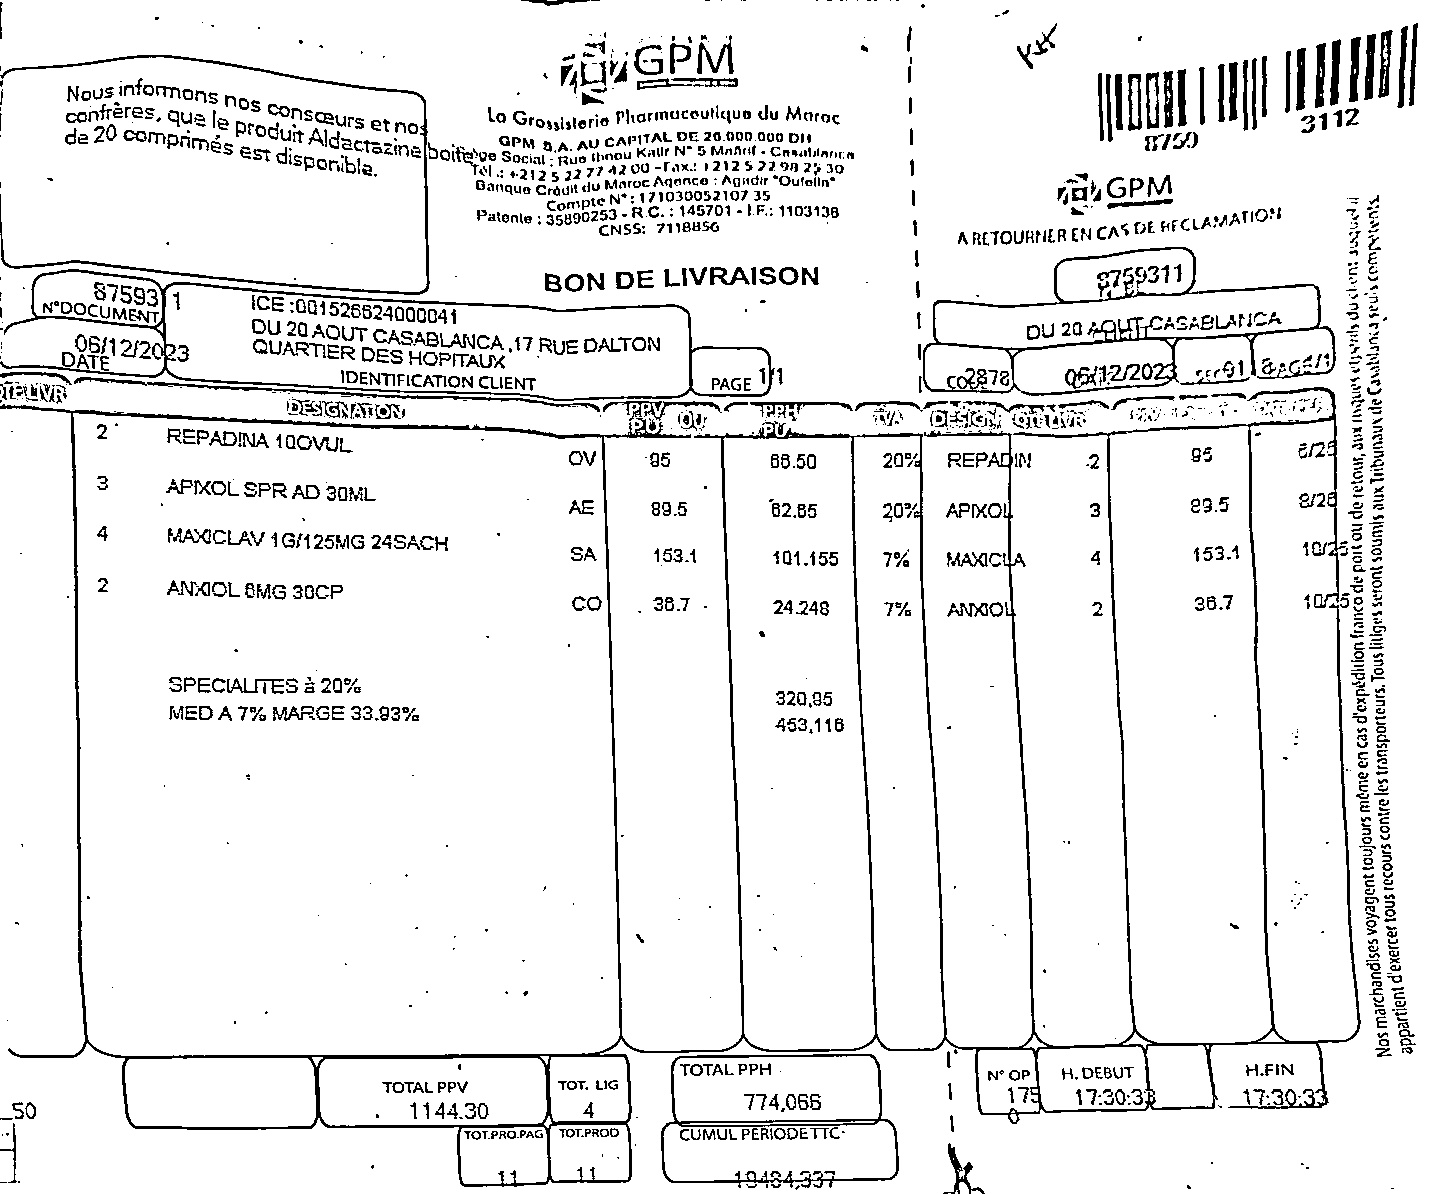
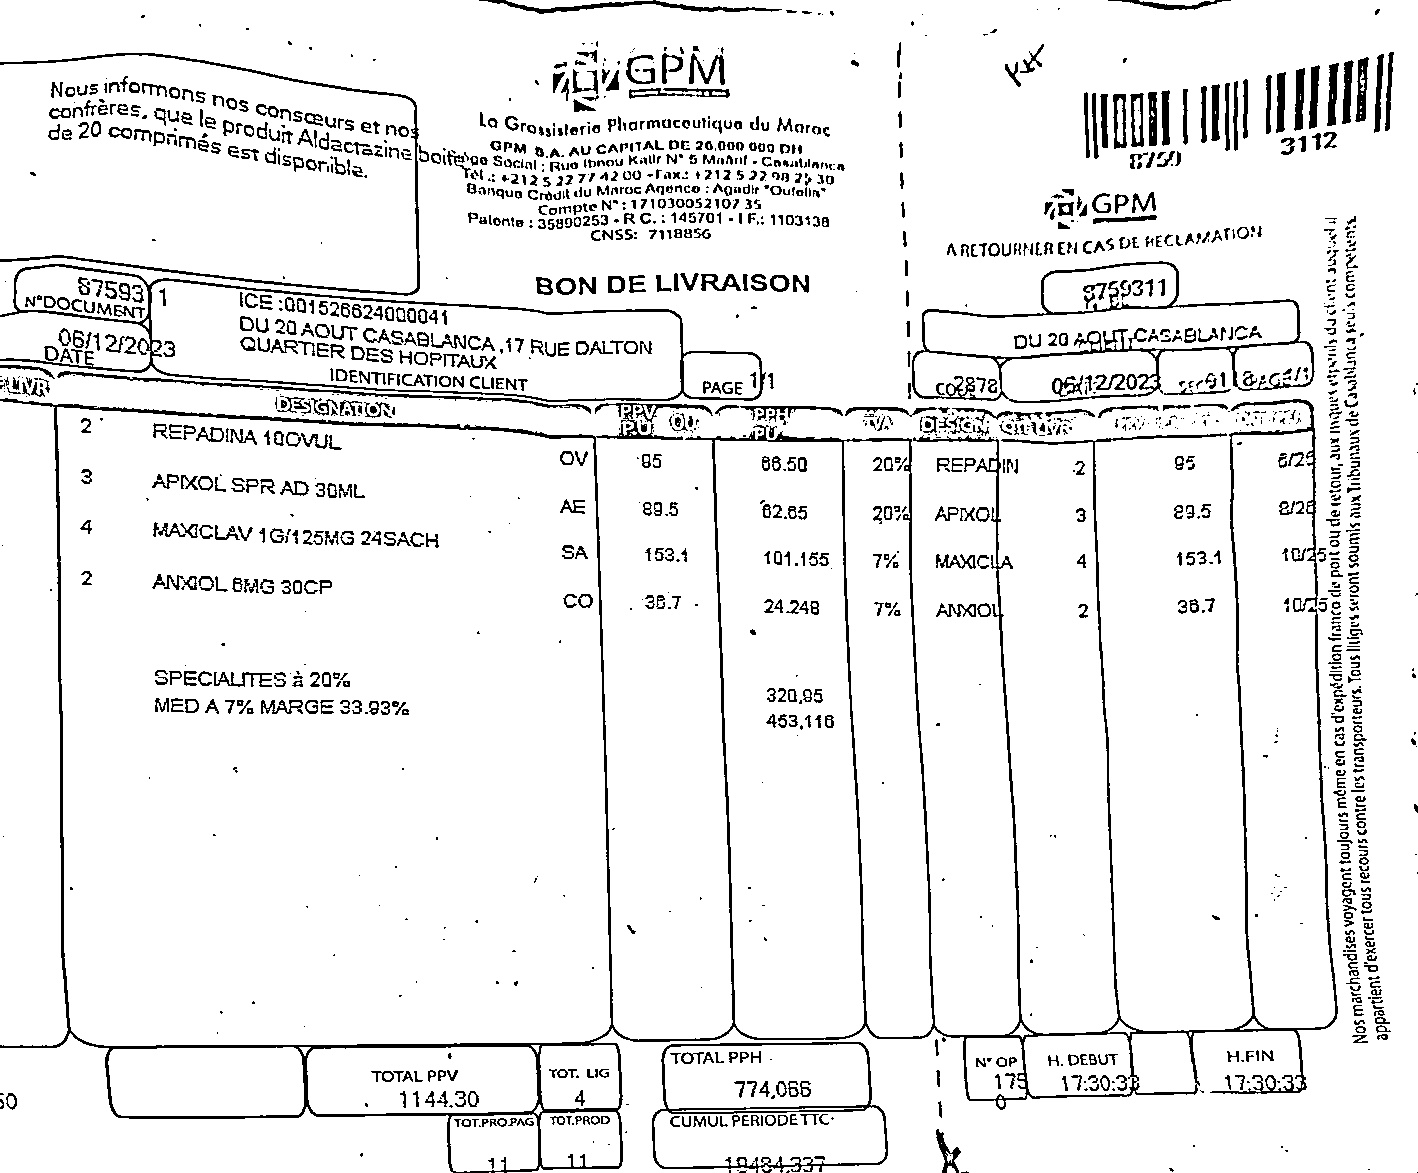
Add featurs of : that straightens the image (deskews it) - Calculate the rotation angle - working in it ...

diff --git a/deskew_image.py b/deskew_image.py
@@ -2,6 +2,7 @@ import cv2
 import numpy as np
 import os
 from scipy.spatial import distance as dist
+from matplotlib import pyplot as plt
 
 
 def deskew_image(image_path, coordinates, max_angle=0):
@@ -49,7 +50,6 @@ def deskew_image(image_path, coordinates, max_angle=0):
 
     return deskewed_image
 
+coordinates = [[247.2, 14.399999999999999], [1348.8, 60.0], [1480.8, 1161.6], [62.4, 1173.6]]
 
-coordinates = [[146.4, 0.0], [1370.3999999999999, 31.2], [1507.2, 1147.2], [4.8, 1192.8]]
-
-deskew_image("output/cropped_model05.jpeg", coordinates)
+deskew_image("images/model01.jpeg", coordinates)
